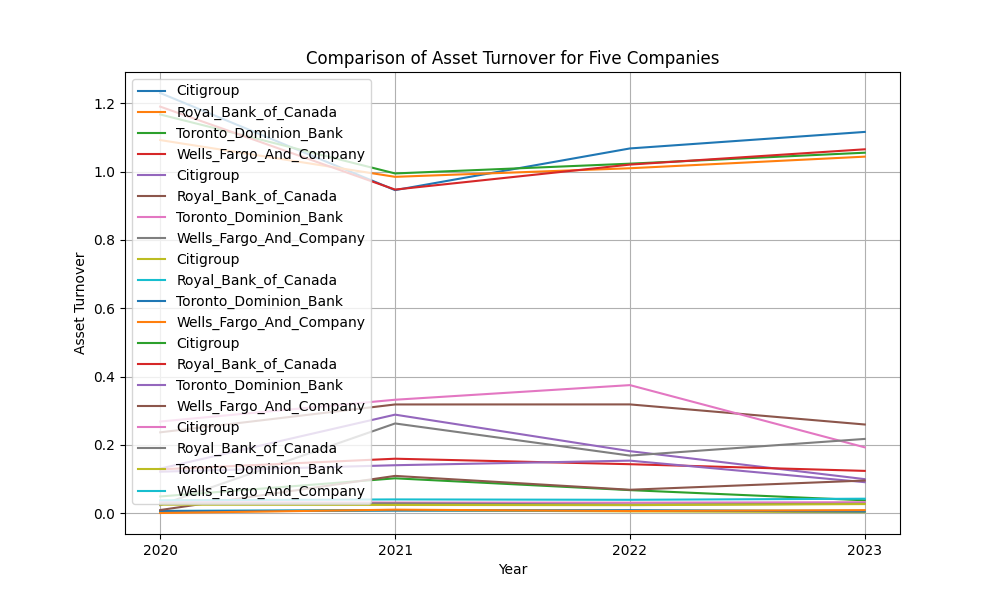
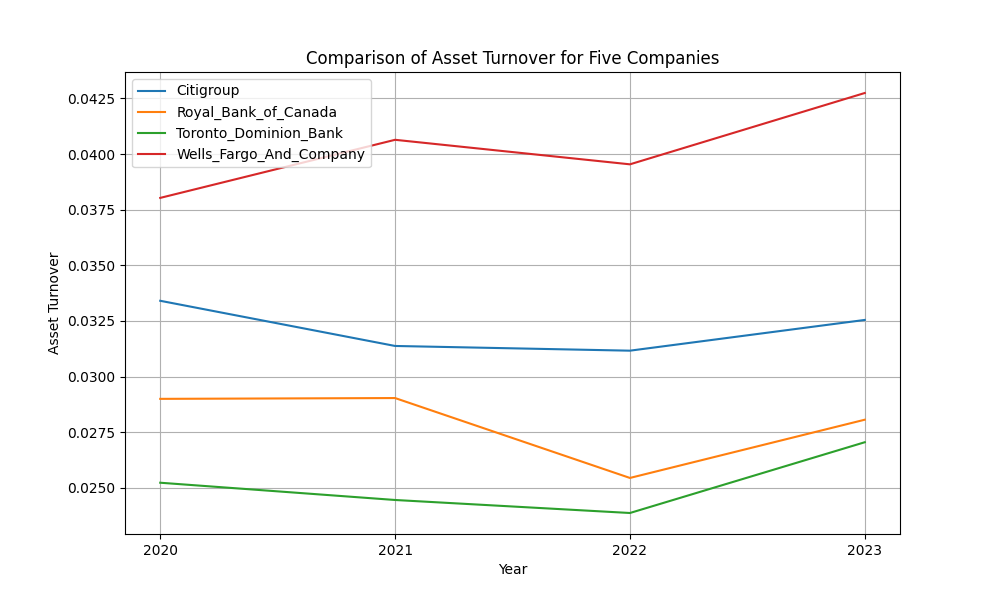
updated the plotting error. analysis result plotted and drafted in Excel

diff --git a/archieved/comparision_analysis.py b/archieved/comparision_analysis.py
@@ -16,18 +16,18 @@ def comparison_analysis():
     # Plotting
 
 
-
-
-
     # Plot the ratio values for each company
     df_cons = pd.DataFrame()
     data = {}
     years = []
     for term in plotting_data:
+
         plt.figure(figsize=(10, 6))
+
         for i, filename in enumerate(filenames):
             df = pd.read_excel(filename, index_col=0)
             company_name = os.path.splitext(os.path.basename(filename))[0]
+            print(company_name)
             years = df.index.tolist()
             plt.plot(df.index.tolist(), df[term].tolist(), label=f'{company_name}')
             plt.xticks(df.index.tolist())
@@ -41,6 +41,7 @@ def comparison_analysis():
         plt.legend()
         plt.grid(True)
         plt.savefig(f'comparison_analysis/{term}.png')
+        plt.show()
     df_cons = df_cons.transpose()
     df_cons.columns = years
     df_cons.to_excel(f'comparison_analysis/comparison_sheet.xlsx')
@@ -49,3 +50,6 @@ def comparison_analysis():
     df_dict.to_excel(f'comparison_analysis/comparison_sheet2.xlsx')
     df_dict_transpose = df_dict.transpose()
     df_dict_transpose.to_excel(f'comparison_analysis/comparison_sheet3.xlsx')
+
+if __name__ == "__main__":
+    comparison_analysis()

diff --git a/functions/ranking.py b/functions/ranking.py
@@ -5,8 +5,9 @@ import matplotlib.pyplot as plt
 
 
 def ranking():
-    pattern = 'analysis_report/**/*.xlsx'
-    filenames = glob.glob(pattern)
+    report_folder = "analysis_report/"
+    pattern = report_folder + '/**/*.xlsx'
+    filenames = glob.glob(pattern, recursive=True)
     print(filenames)
 
     plotting_data = ['Gross Profit Margin', 'Net Profit Margin', 'Return on Assets (ROA)', 'Return on Equity (ROE)',
@@ -14,10 +15,11 @@ def ranking():
 
     years = []
     companies = [os.path.splitext(os.path.basename(filename))[0] for filename in filenames]
-    # Plotting
-    plt.figure(figsize=(10, 6))
+
 
     for term in plotting_data:
+        # Plotting
+        plt.figure(figsize=(10, 6))
         for i, filename in enumerate(filenames):
             df = pd.read_excel(filename, index_col=0)
             company_name = os.path.splitext(os.path.basename(filename))[0]
@@ -29,7 +31,9 @@ def ranking():
         plt.title(f'Comparison of {term} for Five Companies')
         plt.legend()
         plt.grid(True)
-        plt.savefig(f'comparison_analysis/{term}.png')
+        fig_filename = f'comparison_analysis/{term}.png'
+        plt.savefig(fig_filename)
+
 
     ratios = plotting_data
 

diff --git a/main_wip.py b/main_wip.py
@@ -3,12 +3,10 @@ import os
 import matplotlib.pyplot as plt
 import glob
 from functions.ranking import ranking
-from functions.comparision_analysis import comparison_analysis
 
 # Specify the pattern to match filenames (e.g., all .xlsx files)
 pattern = 'sample/*.xlsx'
 filenames = glob.glob(pattern)
-filenames = [filename.strip() for filename in filenames]
 print(filenames)
 
 
@@ -174,5 +172,5 @@ for file_path in filenames:
 if not os.path.exists('comparison_analysis/'):
     # Create the folder if it does not exist
     os.makedirs('comparison_analysis/')
-comparison_analysis()
+
 ranking()
